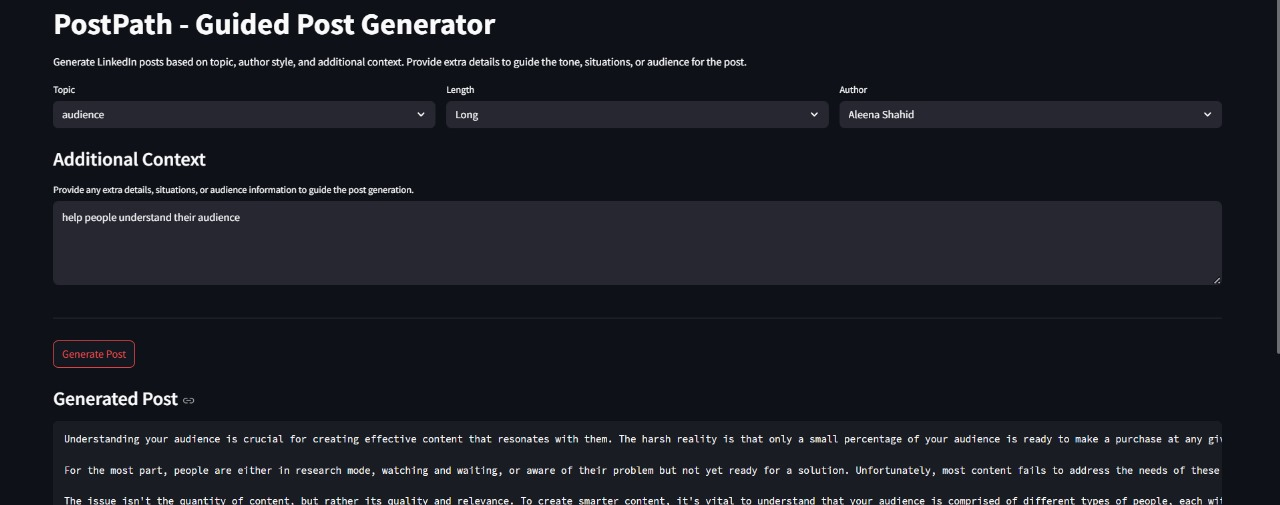
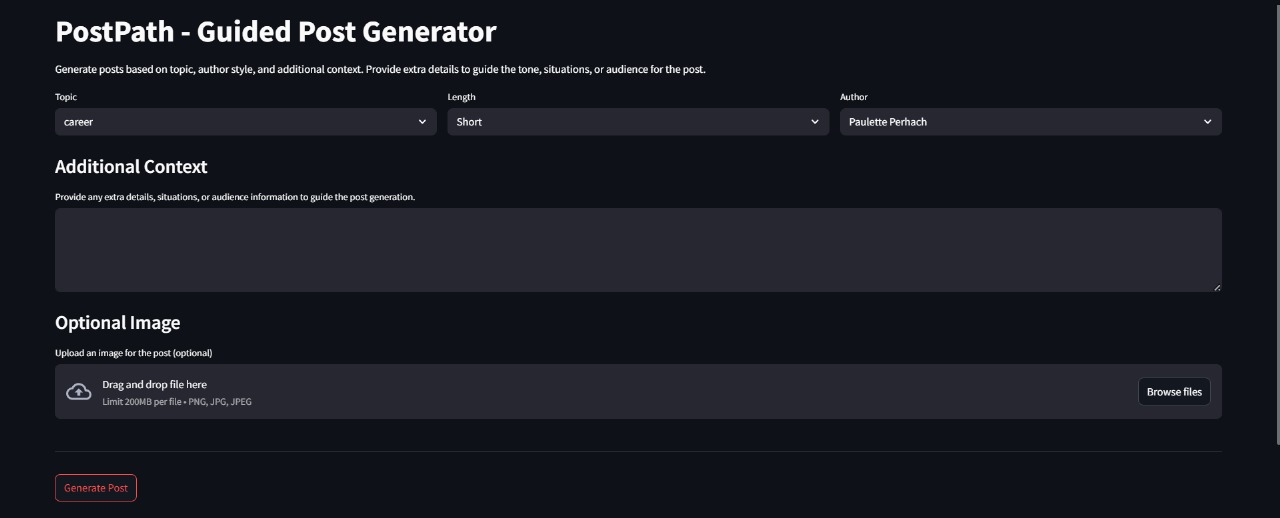
Initial commit

diff --git a/main.py b/main.py
@@ -11,7 +11,7 @@ def main():
     st.set_page_config(page_title="PostPath", layout="wide")
     st.title("PostPath - Guided Post Generator")
     st.markdown("""
-        Generate LinkedIn posts based on topic, author style, and additional context.
+        Generate posts based on topic, author style, and additional context.
         Provide extra details to guide the tone, situations, or audience for the post.
     """)
 
